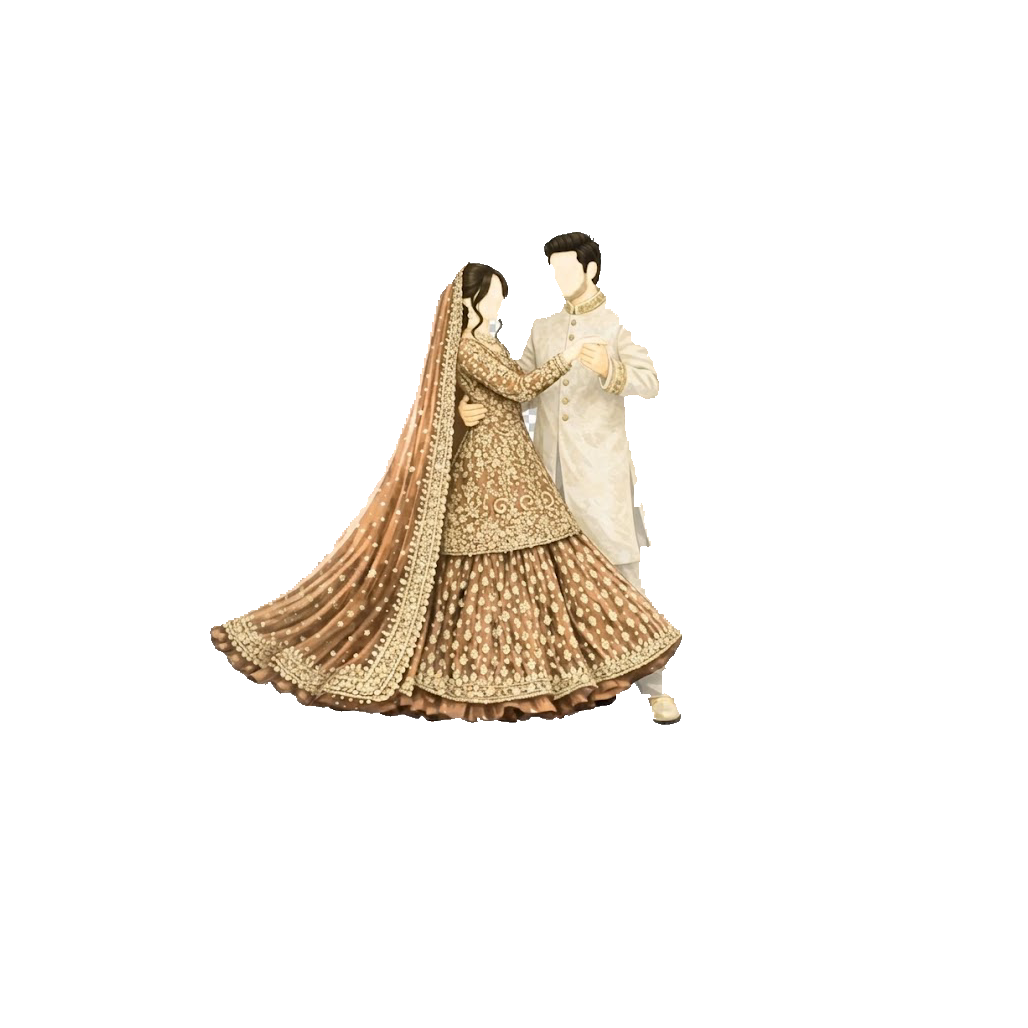
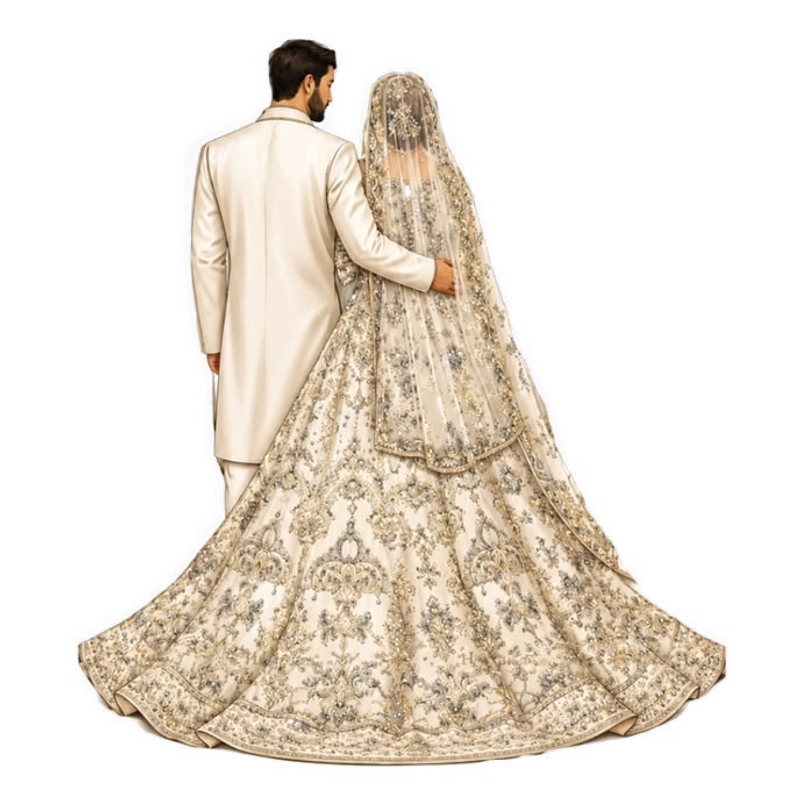
update card couple image

diff --git a/index.html b/index.html
@@ -15,6 +15,7 @@
     <link rel="stylesheet" href="https://cdn.jsdelivr.net/npm/@fortawesome/fontawesome-free@6.5.0/css/all.min.css" integrity="sha256-yIDrPSXHZdOZhAqiBP7CKzIwMQmRCJ8UeB8Jo17YC4o=" crossorigin="anonymous">
     <link rel="preload" as="image" href="./assets/images/bg-texture.webp" type="image/webp">
     <link rel="preload" as="image" href="./assets/images/flower-overlay.webp" type="image/webp">
+    <link rel="preload" as="image" href="./assets/images/bg-couple.webp" type="image/webp">
     <link rel="stylesheet" href="./css/app.css">
 </head>
 <body>
@@ -171,7 +172,10 @@
     <div class="welcome" id="welcome">
         <div class="welcome-card">
             <div class="portrait">
-                <img src="./assets/images/bg-couple.png" alt="Couple">
+                <picture>
+                    <source srcset="./assets/images/bg-couple.webp" type="image/webp">
+                    <img src="./assets/images/bg-couple.png" alt="Hamza and Fatima">
+                </picture>
             </div>
             <p class="invitation-title" style="font-size: clamp(2.2rem, 7vw, 2.8125rem);">Invitation</p>
             <div class="name-stack">

diff --git a/css/app.css b/css/app.css
@@ -450,9 +450,14 @@ button {
     cursor: zoom-in;
 }
 
-.portrait img {
+.portrait img,
+.portrait picture {
     width: 100%;
     height: 100%;
+    display: block;
+}
+
+.portrait img {
     object-fit: cover;
 }
 
@@ -674,8 +679,8 @@ button {
 
 .welcome .portrait img {
     object-fit: contain;
-    object-position: center 58%;
-    transform: translateX(8px) scale(1.6);
+    object-position: center;
+    transform: none;
 }
 
 .welcome .eyebrow {
